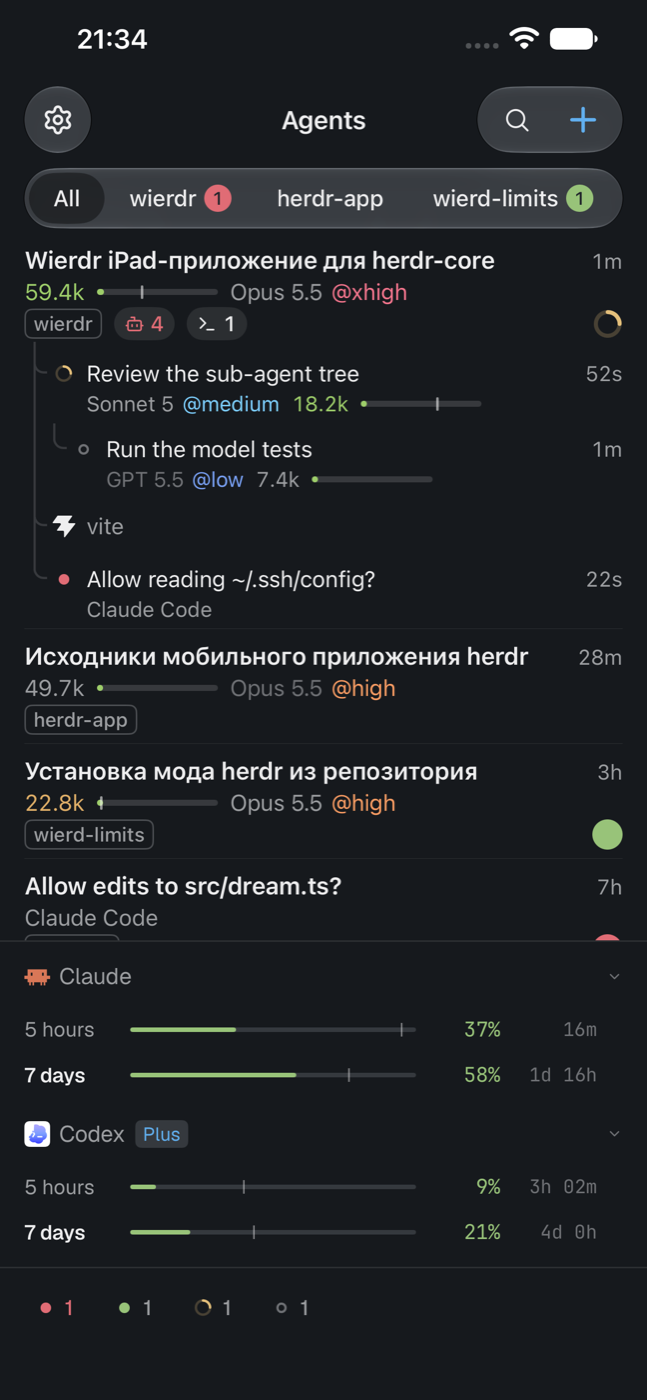
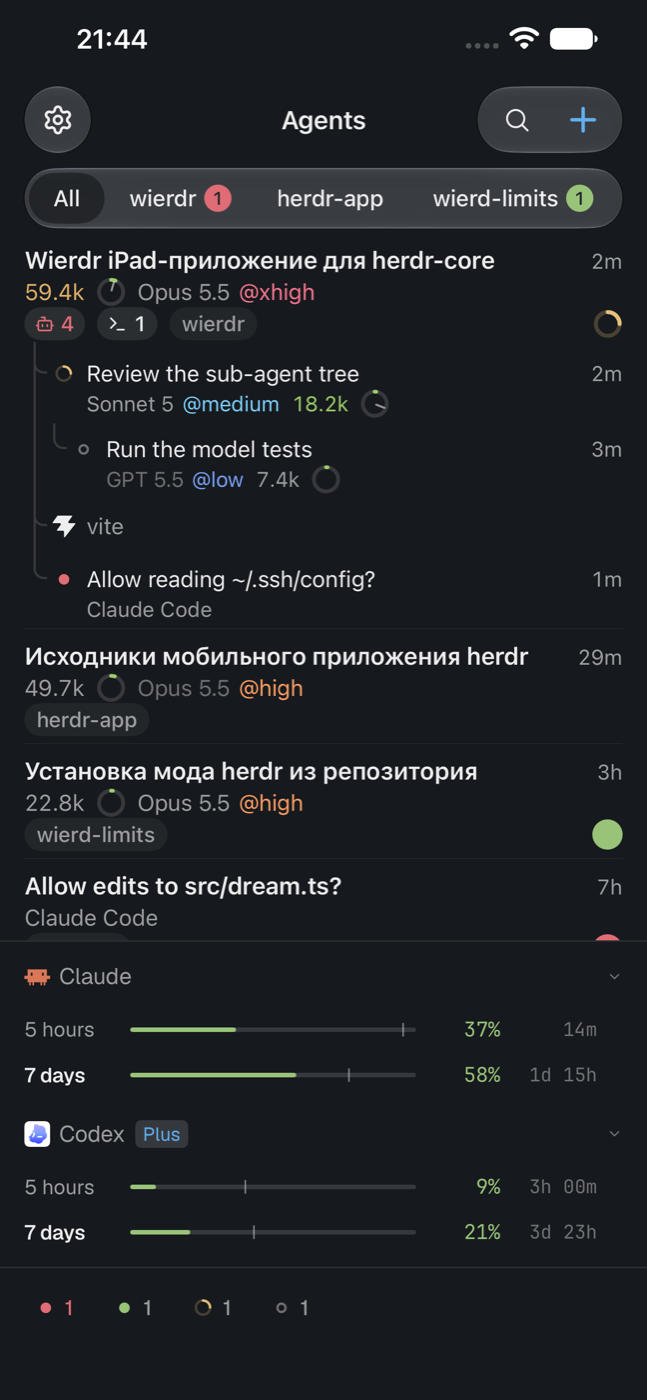
The iPhone list's third line has the sub-agent and terminal chips first and the space's name after them, on the same gray chip as theirs (no frame). The context's bar is a ring (PhoneContextRing), its logic kept: the fraction an arc from the top, clockwise, in the context color over a dim track, and

diff --git a/App/Sources/Phone/PhoneAgentRow.swift b/App/Sources/Phone/PhoneAgentRow.swift
@@ -22,10 +22,10 @@ enum PhoneRowMetrics {
 /// An agent's row, Telegram's chat row without the avatar (76 pt, full width):
 /// 1. its title, and where Telegram has the date: its machine (dim) and how long
 ///    it has been in its state;
-/// 2. its context (the number in its cache color, a bar with the cache's countdown
+/// 2. its context (the number in its cache color, a ring with the cache's countdown
 ///    mark), its model (cut first when room runs out) and @effort;
-/// 3. its space's name in a quiet gray frame (on "All"; cut when room runs out), its
-///    sub-agents and terminals (tap: fold or unfold them); on the right, Telegram's
+/// 3. its sub-agents and terminals (tap: fold or unfold them), its space's name on a
+///    gray chip as theirs (on "All"; cut when room runs out); on the right, Telegram's
 ///    unread badge: needs you (red), done (green), working (the spinner), nothing
 ///    while idle; the pin glyph there when it's pinned and has no badge.
 struct PhoneAgentRowContent: View {
@@ -108,9 +108,6 @@ struct PhoneAgentRowContent: View {
         // pi's own in-process sub-agents (pi-herdr's count) have no terminal: they only add to the count.
         let inner = terminal.meta?.subagents ?? 0
         return HStack(spacing: 8) {
-            if showsSpace {
-                PhoneSpaceTag(name: space.displayName)
-            }
             if kidAgents.count + inner > 0 {
                 PhoneKidBadge(icon: "bot", count: kidAgents.count + inner, open: open,
                               alert: kidAgents.contains { $0.terminal.status == .blocked },
@@ -122,6 +119,9 @@ struct PhoneAgentRowContent: View {
                 PhoneKidBadge(icon: "terminal", count: kidTerms, open: open, alert: false,
                               label: kidTerms == 1 ? "1 terminal" : "\(kidTerms) terminals", action: toggleKids)
                     .fixedSize()
+            }
+            if showsSpace {
+                PhoneSpaceTag(name: space.displayName)
             }
             Spacer(minLength: 0)
             PhoneStatusBadge(status: terminal.status, pinned: terminal.pinned)
@@ -165,7 +165,7 @@ struct PhoneAgentRowContent: View {
 
 // MARK: - Pieces
 
-/// An agent's model line: its context (the number in its cache color and the bar)
+/// An agent's model line: its context (the number in its cache color and the ring)
 /// and its model and @effort. The model is cut first when room runs out; the
 /// context and @effort stay whole. An agent's row has the context first, a
 /// sub-agent's after @effort.
@@ -207,27 +207,28 @@ struct PhoneModelLine: View {
                 Text(ctx)
                     .font(.system(size: size).monospacedDigit())
                     .foregroundStyle(theme.contextNumberColor(cacheUntil: meta?.cacheUntil, now: now))
-                PhoneContextBar(meta: meta, now: now)
+                PhoneContextRing(meta: meta, now: now)
             }
             .fixedSize()
         }
     }
 }
 
-/// A space's name in a quiet gray frame (no avatar); it is cut when room runs out.
+/// A space's name on a gray chip, as the sub-agent and terminal counts (`PhoneKidBadge`),
+/// no avatar; it is cut when room runs out.
 struct PhoneSpaceTag: View {
     var name: String
     @Environment(\.theme) private var theme
 
     var body: some View {
         Text(name)
-            .font(.system(size: 13, weight: .medium))
+            .font(.system(size: 14, weight: .medium))
             .foregroundStyle(theme.muted)
             .lineLimit(1)
             .truncationMode(.tail)
-            .padding(.horizontal, 6)
-            .frame(height: 20)
-            .overlay(RoundedRectangle(cornerRadius: 5, style: .continuous).strokeBorder(theme.dim.opacity(0.6), lineWidth: 1))
+            .padding(.horizontal, 8)
+            .frame(height: 22)
+            .background(theme.hover, in: Capsule())
     }
 }
 
@@ -277,32 +278,41 @@ struct PhoneStatusBadge: View {
     }
 }
 
-/// The context window's use inline: a bar (its fraction in the context color) and
-/// the prompt cache's countdown mark on it.
-struct PhoneContextBar: View {
+/// The context window's use inline, as a ring: its fraction an arc from the top,
+/// clockwise, in the context color over a dim track, and the prompt cache's countdown
+/// mark across the ring, going round back to the top as the cache runs out (the
+/// bar's mark going left).
+struct PhoneContextRing: View {
     var meta: AgentMeta?
     var now: Date
     @Environment(\.theme) private var theme
 
-    static let width: CGFloat = 80
+    static let size: CGFloat = 16
+    static let line: CGFloat = 2.5
 
     var body: some View {
         if let meta, let ctx = meta.ctx, let max = meta.ctxMax, max > 0 {
             let fraction = min(1, Swift.max(0, Double(ctx) / Double(max)))
-            let w = Self.width
-            ZStack(alignment: .leading) {
-                Capsule().fill(theme.input).frame(width: w, height: 4)
-                Capsule().fill(theme.contextBarColor(fraction))
-                    .frame(width: Swift.max(4, w * fraction), height: 4)
+            let d = Self.size
+            ZStack {
+                Circle()
+                    .stroke(theme.input, lineWidth: Self.line)
+                Circle()
+                    .trim(from: 0, to: Swift.max(0.02, fraction))
+                    .stroke(theme.contextBarColor(fraction), style: StrokeStyle(lineWidth: Self.line, lineCap: .round))
+                    .rotationEffect(.degrees(-90))
                 if let until = meta.cacheUntil, let ttl = meta.cacheTTL, ttl > 0, until > now {
                     let left = Swift.min(1, until.timeIntervalSince(now) / ttl)
+                    // A tick across the ring, from the middle out to its edge.
                     RoundedRectangle(cornerRadius: 0.75)
                         .fill(theme.foreground.opacity(0.6))
-                        .frame(width: 1.5, height: 9)
-                        .offset(x: (left * (w - 1.5)).rounded())
+                        .frame(width: 1.5, height: d / 2 - 1)
+                        .offset(y: -(d / 4 - 0.5) - 0.5)
+                        .rotationEffect(.degrees(360 * left))
                 }
             }
-            .frame(width: w, height: 10)
+            .padding(Self.line / 2)
+            .frame(width: d + Self.line, height: d + Self.line)
             .accessibilityHidden(true)
         }
     }
@@ -347,7 +357,7 @@ struct PhoneKidBadge: View {
 /// A sub-agent under its agent, in the agent's block (no separator between
 /// them), indented with the tree's lines: its status mark and title, its age;
 /// under that its model, @effort and, as an agent's row has it, its context (the
-/// number and the bar). 50 pt. A plain terminal an agent
+/// number and the ring). 50 pt. A plain terminal an agent
 /// started: its program's icon and name, 36 pt.
 struct PhoneKidRowContent: View {
     var kid: SubAgent

diff --git a/docs/TRADEOFFS.md b/docs/TRADEOFFS.md
@@ -60,7 +60,7 @@
 | Тап по терминалу | Клик в программу — и при открытой клавиатуре, она остаётся (прокрутка тоже). Двойной тап — клавиатура терминала, при открытой клавиатуре (терминала или поля) — убрать её (на обоих устройствах); поле сообщения — тапом по нему, под терминалом | pi и vim с мышью получают клики, а чтение не перебивает выскочившая клавиатура; с клавиатурой можно кликать и листать, не теряя её. Двойной тап ловит свой распознаватель (с клавиатурой — распознаватель панели клавиш на корневом view, без неё — терминала), тапы SwiftTerm ждут его провала: в программу на двойной тап ничего не уходит. Цена: пальцем двойной/тройной тап больше не выделяет слово/строку (выделение — меню долгого тапа; указателем двойной/тройной клик выделяет по‑прежнему); одиночный клик, как и раньше, ждёт, не будет ли второго тапа. Панель клавиш тап не закрывает (только свайп вправо): тап рядом с ней — клик в программу. |
 | Список на iPhone | Как список чатов Telegram: первый экран; панель — экран поверх него (push справа, свайп назад в любом месте панели), с движением Telegram (iOS 26): параллакс 0,3, затемнение, скруглённые углы, пружины и правило отпускания UIKit | Свой контейнер вместо `NavigationStack`: точные пружины и правила Telegram (без резинки за краями, без перелёта), начало свайпа через 2 pt, а терминал (его панорамы, выделение, панель клавиш) договаривается с жестом назад сам. Пока ты в списке, ни один агент не выбран: экран панели убирается из иерархии (терминал отключится через минуту; вернёшься раньше — вывод на месте, иначе переаттач). Скруглённые углы — радиус экрана из закрытого свойства `UIScreen` (нет — углы прямые); обрезка карты панели выходит за её рамку до краёв окна (под статус‑бар, полоску «домой», клавиатуру): обрезка по рамке срезала фоны, уходящие в безопасную зону, и под статус‑баром просвечивал список. Свайп назад ждут все остальные панорамы панели (на вертикальном движении он проваливается за 2 pt). |
 | Спейсы на iPhone | Табы спейсов над списком, как папки чатов Telegram (All + спейс), свайп по списку листает их; режима Spaces с карточками больше нет | Агенты нужнее всего, спейс — фильтр. Меню спейса — long‑press по табу (Rename, New Tab, Close), перетаскивания спейсов на iPhone нет (оно в сайдбаре iPad). Как у Telegram, листают спейсы свайпы из середины экрана, а действия строк — свайпы от краёв (по 1/6 ширины): цена — свайп по строке из середины не открывает её кнопки. Страницы — свои, а не `ScrollView` с пейджингом: резинка и правила отпускания Telegram. |
-| Строки на iPhone | Как строки чатов Telegram, без большого аватара: статус — на месте счётчика непрочитанных, закреплённые сверху на сером, порядок — по последней смене статуса | Всё, что было в карточке, осталось (модель, effort, контекст и кэш, сабагенты, машина), но плотнее и без групп по статусу; значков нет (ни аватара спейса, ни значка провайдера: спейс — имя в рамке, провайдер ясен из модели); срочное видно по красным/зелёным кружкам справа и бейджам табов. Время закрепления — в значении метки `herdr.pinned` (десктоп видит любое непустое как «закреплён»; его «1» — после закреплённых здесь). Кнопки свайпов — свои, круглые, как у Telegram (иконки статичные, без Lottie). |
+| Строки на iPhone | Как строки чатов Telegram, без большого аватара: статус — на месте счётчика непрочитанных, закреплённые сверху на сером, порядок — по последней смене статуса | Всё, что было в карточке, осталось (модель, effort, контекст и кэш, сабагенты, машина), но плотнее и без групп по статусу; значков нет (ни аватара спейса, ни значка провайдера: спейс — имя на сером фоне, провайдер ясен из модели); контекст — кольцо вместо полоски (короче в строке); срочное видно по красным/зелёным кружкам справа и бейджам табов. Время закрепления — в значении метки `herdr.pinned` (десктоп видит любое непустое как «закреплён»; его «1» — после закреплённых здесь). Кнопки свайпов — свои, круглые, как у Telegram (иконки статичные, без Lottie). |
 | Баннеры «Needs you / Done» | Только внутри приложения и только на экране панели (в списке изменения и так видны) | Фоновых уведомлений нет: iOS усыпляет приложение и рвёт SSH; нужен APNs/свой релей. |
 | Экран не гаснет | Пока на экране работающий (`working`) агент | Заблокированный iPhone рвёт соединение; цена — батарея, пока смотришь, как агент работает. |
 | Установка по воздуху | `scripts/ota.sh`: страница + manifest + ipa по HTTPS на имени Mac в tailnet (`tailscale serve`, путь `/wierdr`), раздаёт локальный `python3 http.server` (127.0.0.1:8791) | Tailscale.app не умеет раздавать папки (sandbox), поэтому нужен процесс‑сервер. Только tailnet, без Funnel; остальные обработчики `tailscale serve` не трогаются. Выключить: `scripts/ota.sh off`. Сборка development: ставится только на устройства из профиля команды (iPhone 13 Pro Max в нём есть, профиль до 23.07.2027). |
